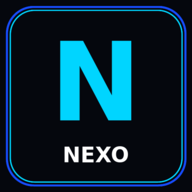
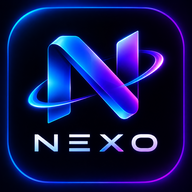
Atualiza site-nexo com cartao iOS e icone oficial

diff --git a/index.html b/index.html
@@ -9,7 +9,7 @@
     <meta property="og:type" content="website">
     <meta property="og:title" content="NEXO — Sua inteligência. Sem limites.">
     <meta property="og:description" content="Conheça o NEXO, uma inteligência artificial criada para estar sempre com você.">
-    <meta property="og:url" content="https://andersonptg.github.io/DaNikeAI-Site/">
+    <meta property="og:url" content="https://andersonptg.github.io/site-nexo/">
     <meta property="og:site_name" content="NEXO">
 
     <meta name="twitter:card" content="summary">
@@ -18,7 +18,7 @@
 
     <meta name="viewport" content="width=device-width, initial-scale=1.0">
     <meta name="theme-color" content="#05060a">
-    <title>NEXO — Sua inteligência. Sem limites.</title>
+    <title>site-nexo | NEXO — Sua inteligência. Sem limites.</title>
     <link rel="manifest" href="manifest.webmanifest">
     <link rel="icon" type="image/png" sizes="192x192" href="icons/nexo-192.png">
     <link rel="apple-touch-icon" href="icons/nexo-192.png">
@@ -166,10 +166,17 @@
 
         </section>
 
-        <div class="ios-install-hint">
-            <h3>Também no iPhone</h3>
-            <p>Abra este site no Safari, toque em Compartilhar e escolha “Adicionar à Tela de Início”.</p>
+        <div class="download-card ios-download-card" aria-label="NEXO para iPhone em desenvolvimento">
+    <div class="app-info">
+        <div class="app-icon ios-app-icon" aria-hidden="true">🍎</div>
+        <div>
+            <h2>NEXO</h2>
+            <p>Para iPhone (iOS)</p>
         </div>
+    </div>
+    <div class="ios-status">EM DESENVOLVIMENTO</div>
+    <p class="ios-description">A versão nativa para iPhone ainda está em desenvolvimento. A opção de instalação será divulgada quando estiver pronta.</p>
+</div>
 
         <section class="versions">
 

diff --git a/style.css b/style.css
@@ -2131,27 +2131,38 @@ section {
 }
 
 
-/* INSTALACAO DO NEXO NO IPHONE */
-.ios-install-hint {
-    margin: 22px auto;
-    padding: 18px;
-    max-width: 520px;
+
+
+
+/* CARTAO APPLE — VERSAO NATIVA EM DESENVOLVIMENTO */
+.ios-download-card {
+    margin: 22px auto 0;
+    border-color: rgba(0, 213, 255, 0.42);
+    background: linear-gradient(145deg, rgba(8, 16, 30, 0.92), rgba(10, 12, 20, 0.82));
+}
+
+.ios-app-icon {
+    background: linear-gradient(135deg, #172033, #30394b);
+    box-shadow: 0 0 24px rgba(148, 163, 184, 0.13);
+}
+
+.ios-status {
+    margin-top: 18px;
+    padding: 11px 12px;
+    border: 1px solid rgba(0, 213, 255, 0.38);
+    border-radius: 11px;
+    color: #70e8ff;
+    background: rgba(0, 160, 210, 0.08);
     text-align: center;
-    background: rgba(5, 12, 28, 0.88);
-    border: 1px solid rgba(0, 213, 255, 0.45);
-    border-radius: 16px;
-    box-shadow: 0 0 18px rgba(0, 100, 255, 0.12);
+    font-size: 11px;
+    font-weight: 800;
+    letter-spacing: 1.5px;
 }
 
-.ios-install-hint h3 {
-    margin: 0 0 9px;
-    color: #00d5ff;
-    font-size: 1.05rem;
-}
-
-.ios-install-hint p {
-    margin: 0;
-    color: #d7e2f5;
-    font-size: 0.92rem;
-    line-height: 1.6;
+.ios-description {
+    margin: 12px 2px 0;
+    color: #aab6ca;
+    font-size: 12px;
+    line-height: 1.65;
+    text-align: center;
 }
